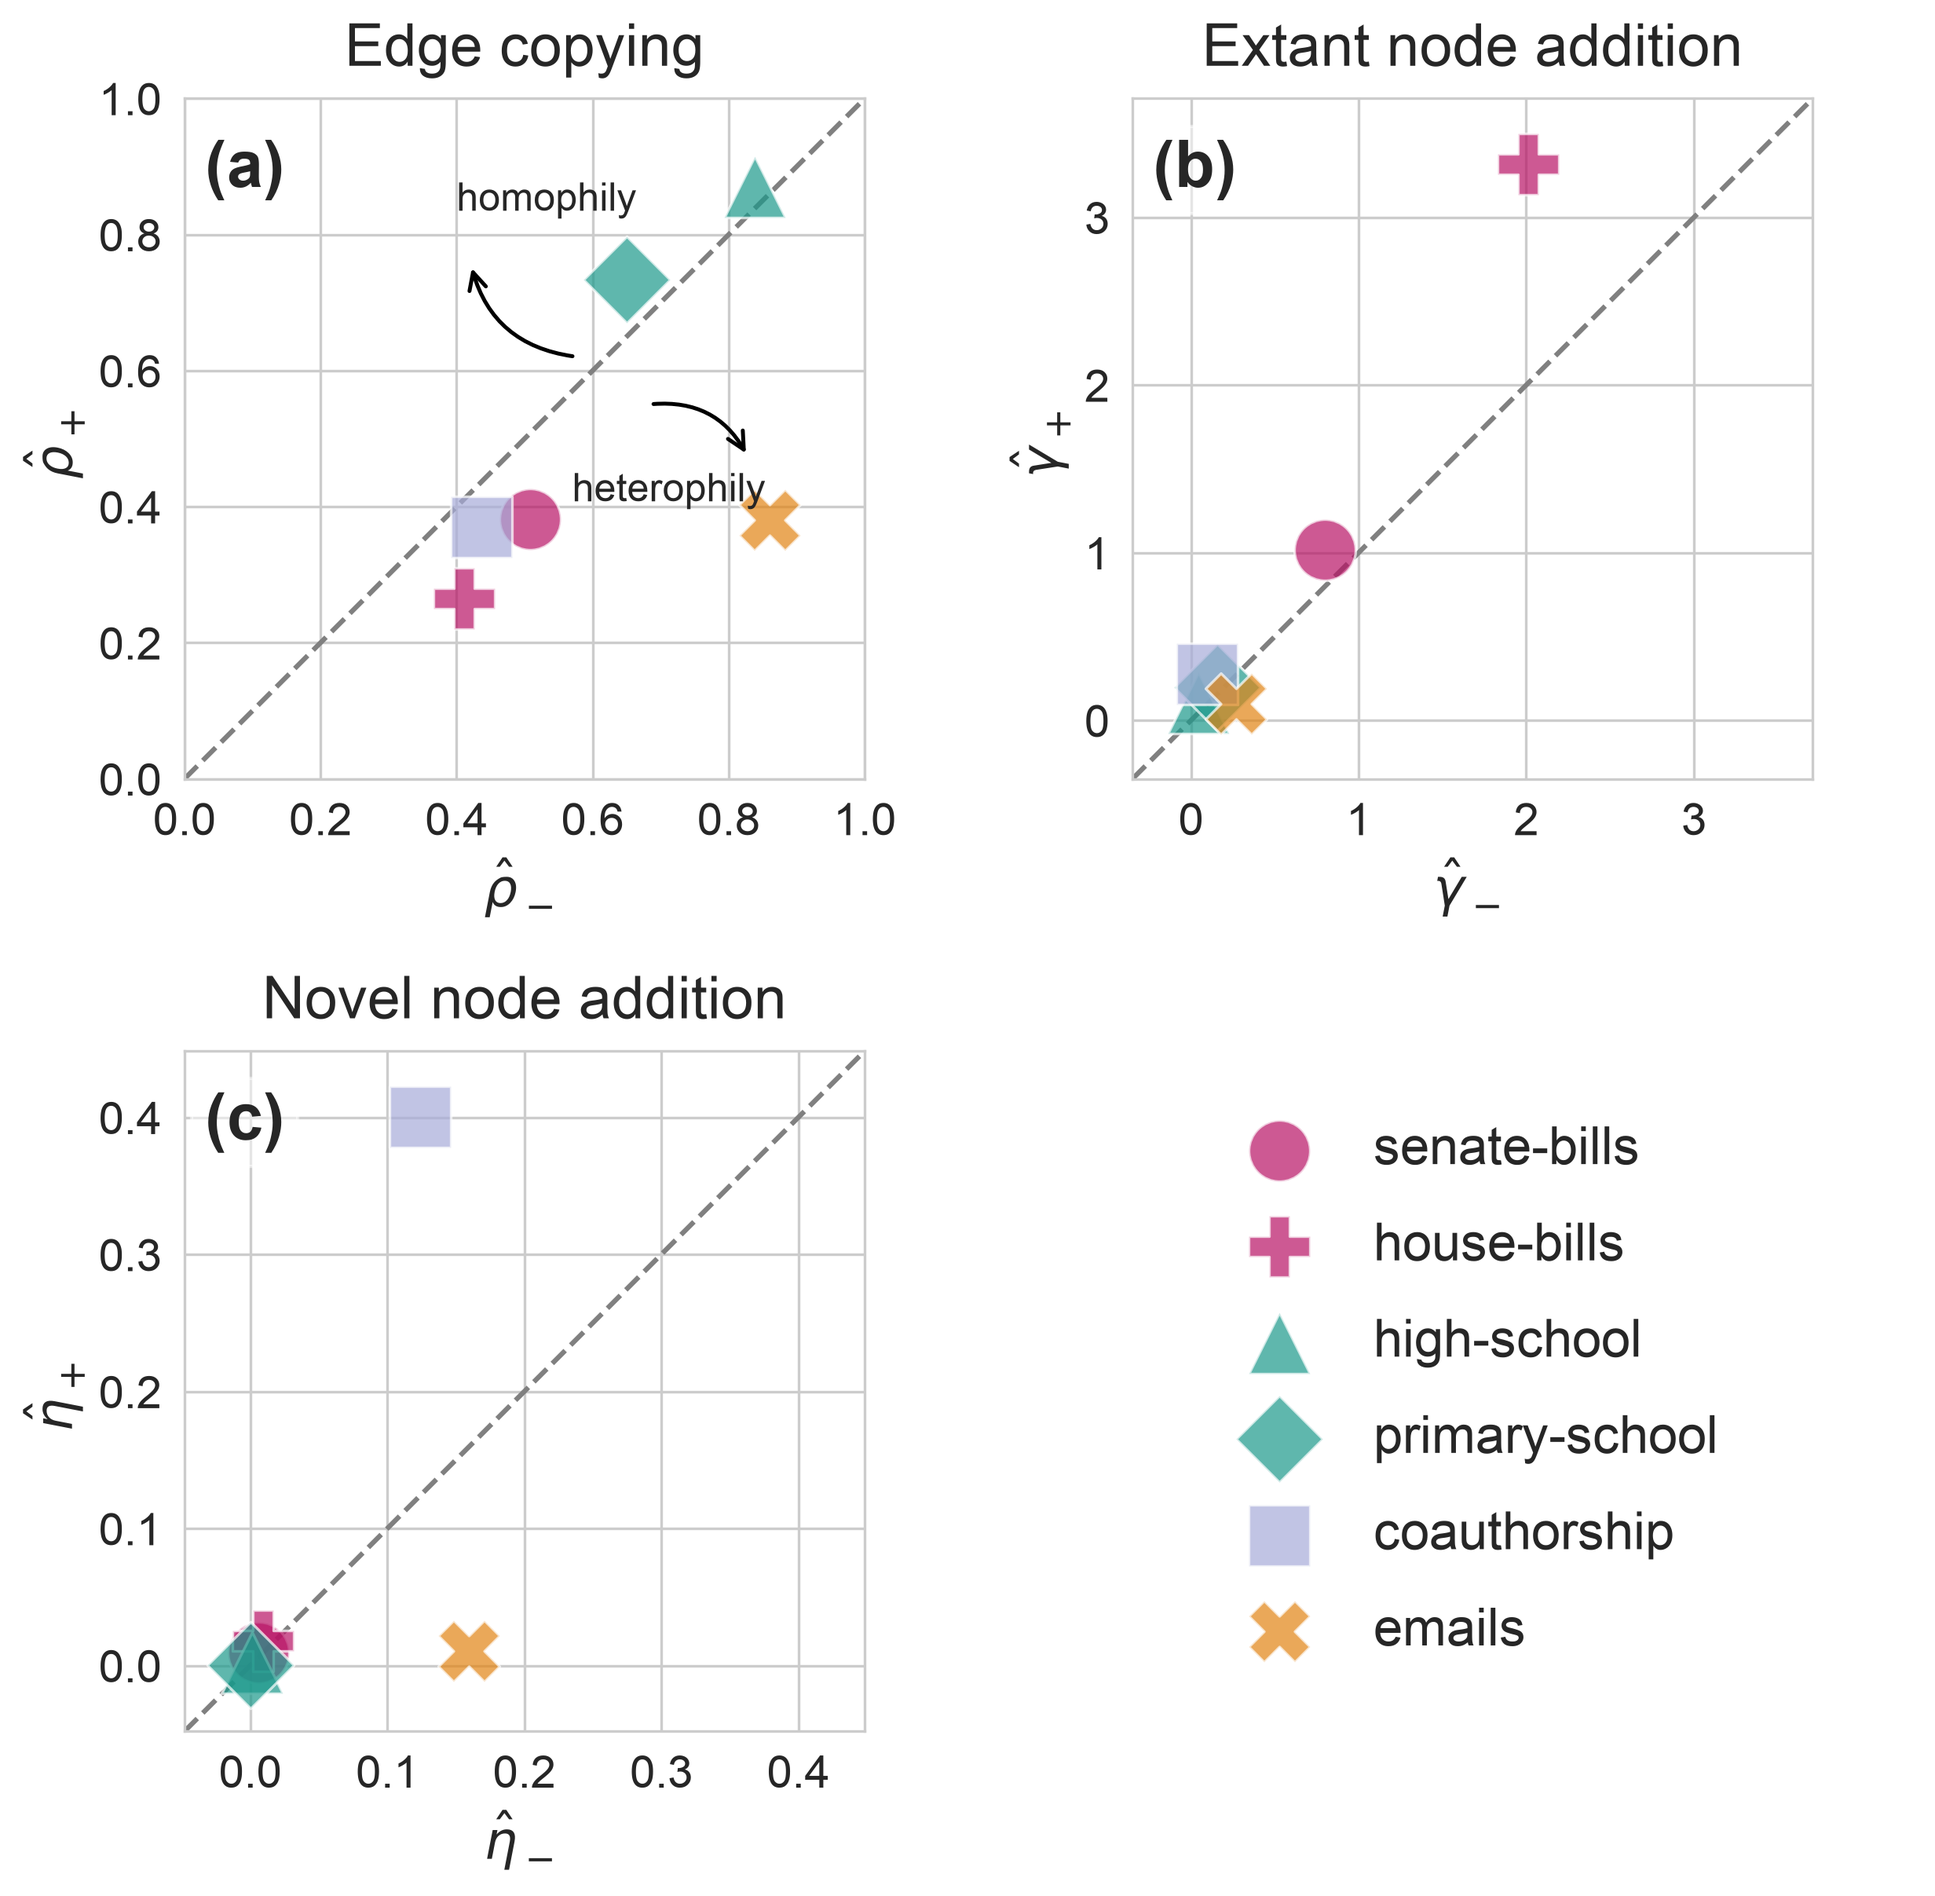
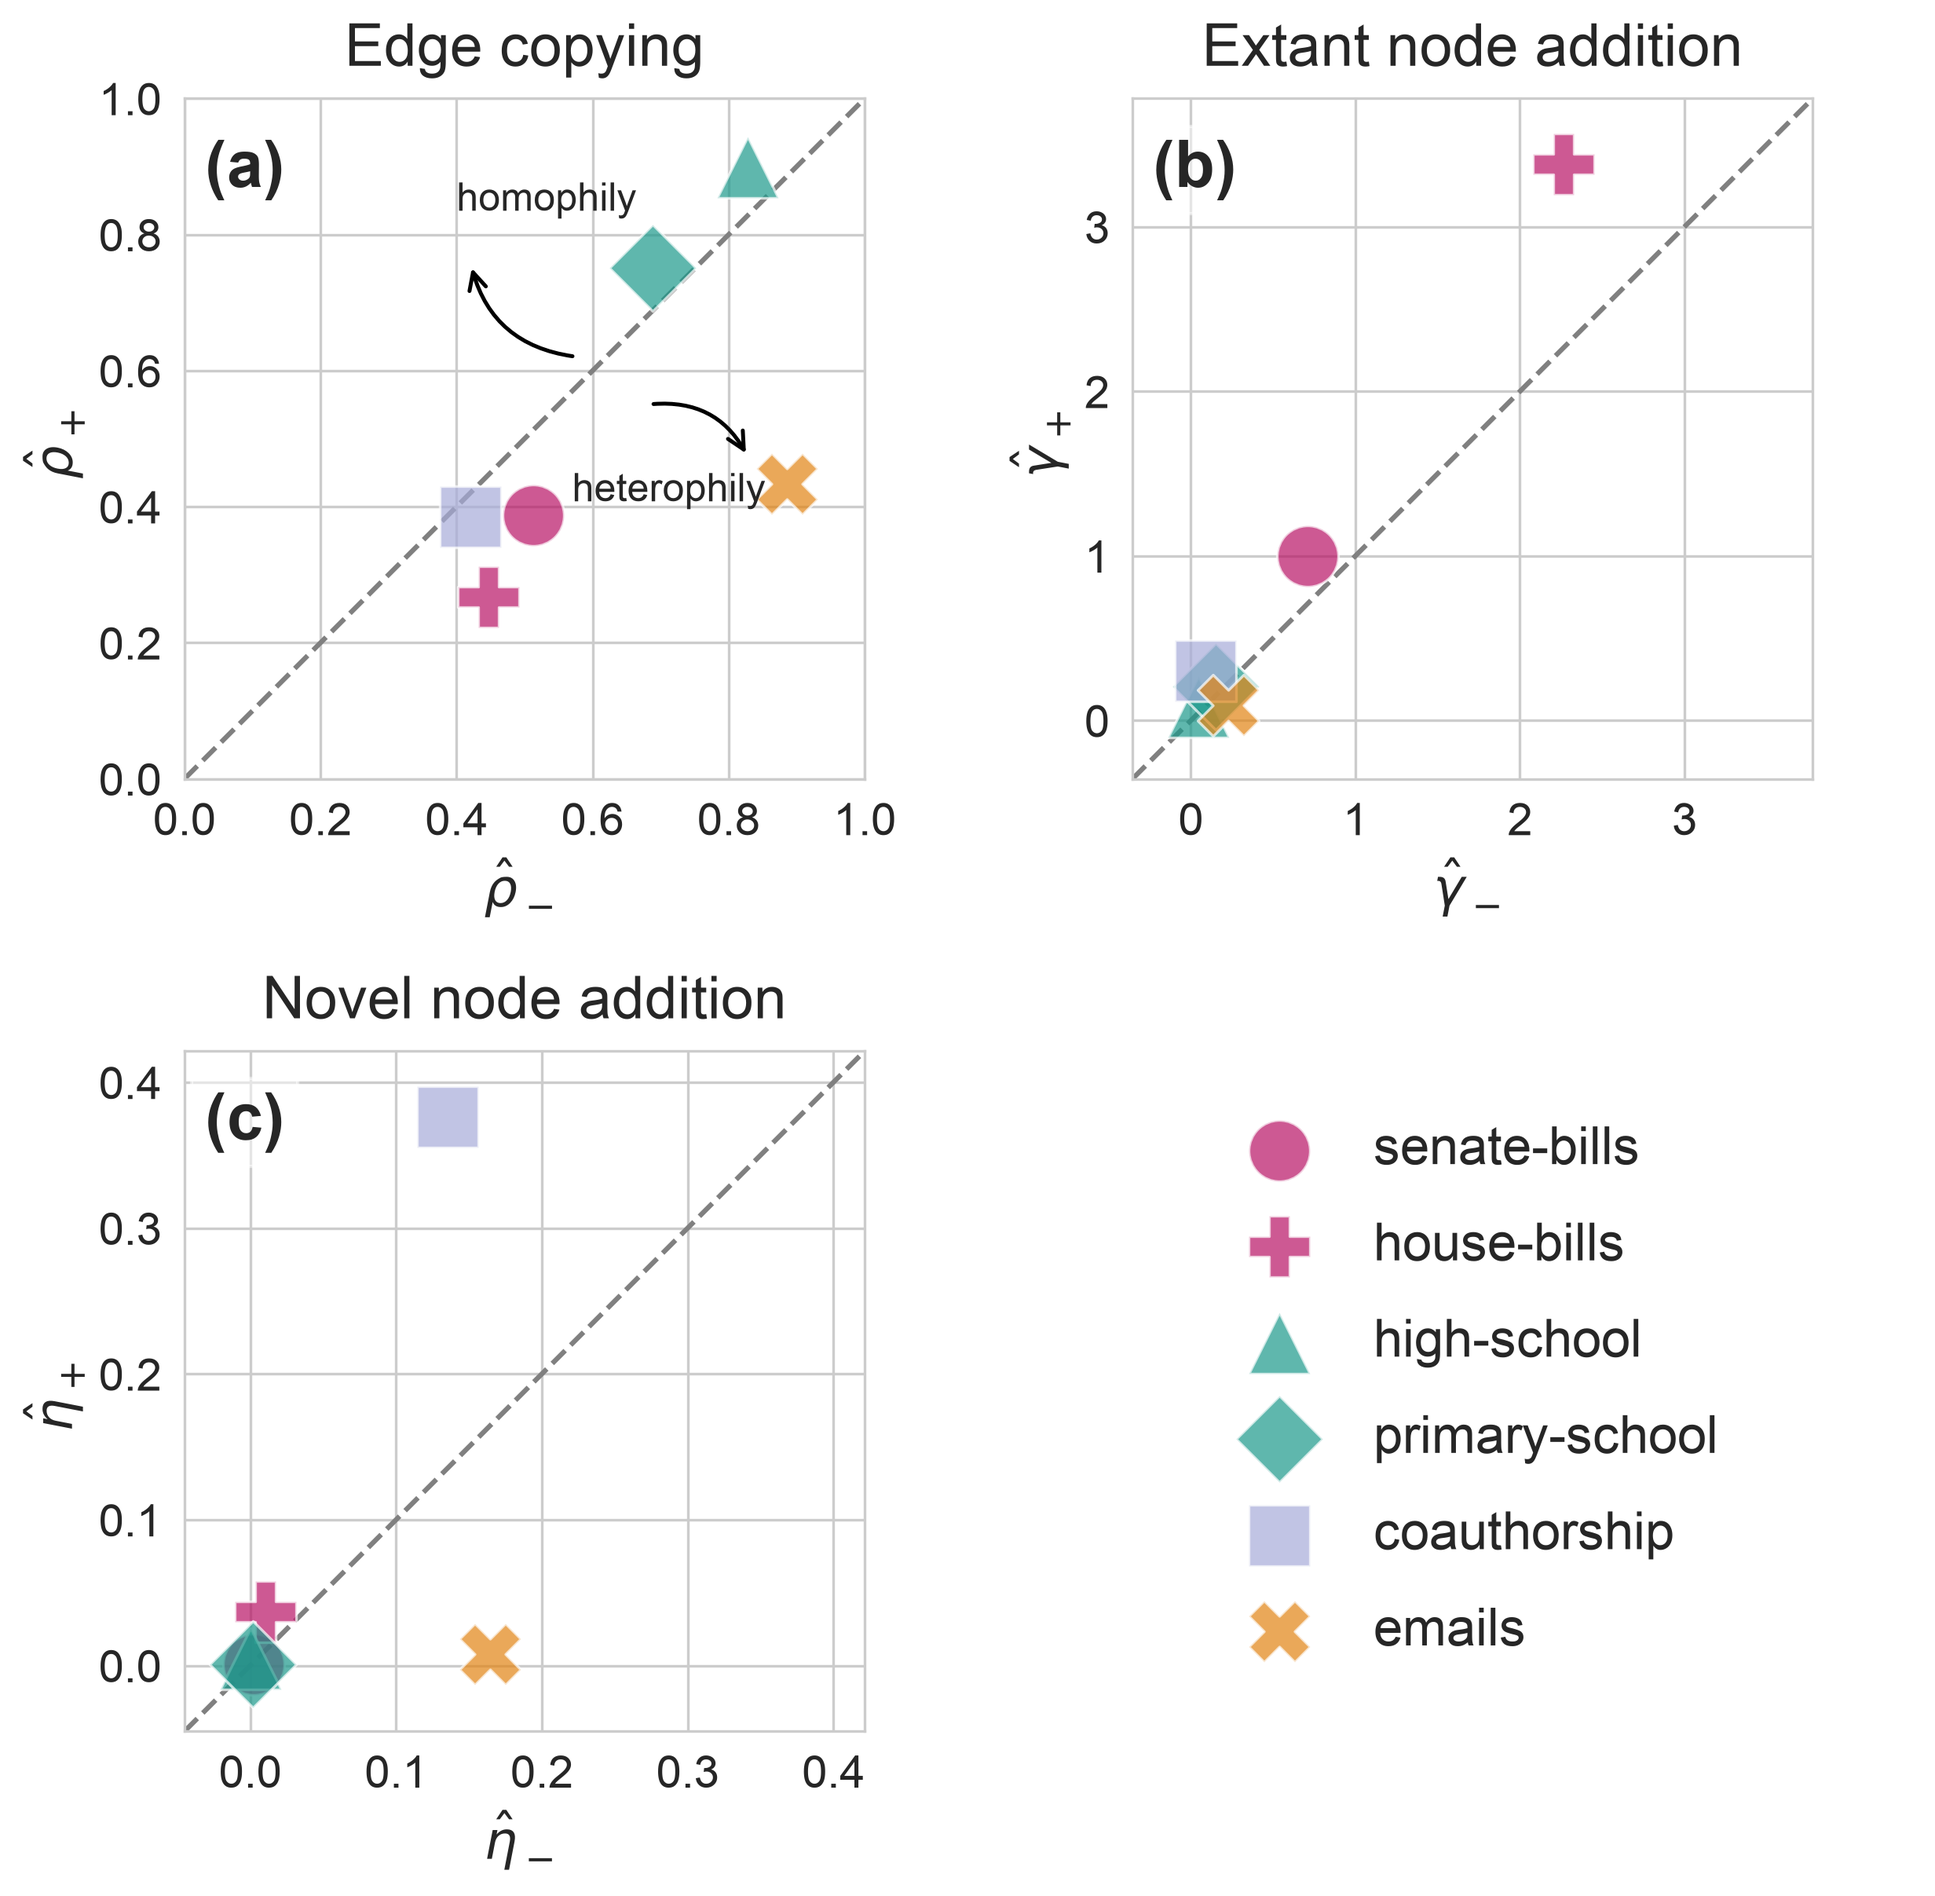
updated to have polynomial decay, higher iteration limit, weaker convergence criterion

diff --git a/scripts/complete_sem_convergence_plots_poly.py b/scripts/complete_sem_convergence_plots_poly.py
@@ -146,9 +146,17 @@ x_bracket_groups = [
 
 INPUT_DIR = "throughput/synthetic_results"
 N_ITERS = 20
+# iteration_limit used in scripts/complete_SEM_convergence_poly.py: a run that
+# never meets the convergence criterion writes exactly this many rows, while a
+# run that meets it stops early and writes fewer.
+ITERATION_LIMIT = 12000
+n_runs_total = 0
+n_runs_criterion_met = 0
 
 n_rows, n_cols = 10, 4
 kl_values = np.full((n_rows, n_cols), np.nan)
+n_found = np.zeros((n_rows, n_cols), dtype=int)  # replicates found per cell
+missing_by_graph = {}
 
 # Remap: original row index → display row index
 # Original row 9 (graphs 37-40) → display row 6
@@ -172,30 +180,39 @@ for graph_idx, true_theta in enumerate(true_thetas, start=1):
     truth = np.array(true_theta)
 
     iter_kls = []
+    last_found_path = None
     for j in range(1, N_ITERS + 1):
-        csv_path = os.path.join(INPUT_DIR, f"graph{graph_idx}_rep{j}_sem_ests_poly.csv")
+        csv_path = os.path.join(INPUT_DIR, f"graph{graph_idx}_rep{j}_sem_ests_poly_longer.csv")
         if not os.path.exists(csv_path):
             print(f"  [WARNING] Missing: {csv_path}")
+            missing_by_graph.setdefault(graph_idx, []).append(j)
             continue
 
         with open(csv_path, newline="") as f:
             all_rows = list(csv.reader(f))
+
+        n_runs_total += 1
+        if len(all_rows) < ITERATION_LIMIT:
+            n_runs_criterion_met += 1
 
         last_row = [float(v) for v in all_rows[-1] if v.strip() != ""][1:]
         estimate = np.array(last_row)
         kl = total_kl(truth, estimate)
         
         iter_kls.append(kl)
+        last_found_path = csv_path
+
+    n_found[row, col] = len(iter_kls)
 
     if iter_kls:
         mean_kl = np.mean(iter_kls)
         
         if mean_kl > max_kl:
-            kl_file_max = csv_path
+            kl_file_max = last_found_path
             kl_true_theta_max = truth
             max_kl = mean_kl
         if mean_kl < min_kl:
-            kl_file_min = csv_path
+            kl_file_min = last_found_path
             kl_true_theta_min = truth
             min_kl = mean_kl
 
@@ -206,8 +223,19 @@ for graph_idx, true_theta in enumerate(true_thetas, start=1):
         
 
 kl_values = kl_values[:, [0, 1, 3, 2]]
+n_found = n_found[:, [0, 1, 3, 2]]
+
+if missing_by_graph:
+    n_missing = sum(len(v) for v in missing_by_graph.values())
+    print(f"[WARNING] {n_missing} replicate file(s) missing across "
+          f"{len(missing_by_graph)} graph(s); affected cells are averaged over "
+          f"fewer replicates and marked on the heatmap:")
+    for g, reps in missing_by_graph.items():
+        print(f"  graph{g}: {N_ITERS - len(reps)}/{N_ITERS} found, missing reps {reps}")
 
 
+print(f"Convergence criterion met in {n_runs_criterion_met} of {n_runs_total} runs "
+      f"({n_runs_total - n_runs_criterion_met} ran to the {ITERATION_LIMIT}-iteration limit)")
 print(f"File with maximum KL divergence: {kl_file_max}")
 print(f"Maximum KL divergence: {max_kl}")
 print(f"File with minimum KL divergence: {kl_file_min}")
@@ -262,6 +290,21 @@ for i, idx in enumerate([vmin_idx, vmax_idx]):
     val = kl_values[r, c]
     ax.text(c, r, f"{val:.3f}", ha="center", va="center",
             fontsize=10, color=["black", "white"][i])
+
+# Mark cells that are missing replicates with a small "found/total" count
+# in the lower-right corner (cells with no data at all are left blank + marked).
+if (n_found < N_ITERS).any():
+    for r in range(n_rows):
+        for c in range(n_cols):
+            if n_found[r, c] == N_ITERS:
+                continue
+            val = kl_values[r, c]
+            dark_cell = np.isfinite(val) and im.norm(val) > 0.5
+            ax.text(c + 0.46, r + 0.42, f"{n_found[r, c]}/{N_ITERS}",
+                    ha="right", va="bottom", fontsize=6,
+                    color="white" if dark_cell else "black")
+    ax.text(1.0, -0.02, f"k/{N_ITERS}: cell averaged over k of {N_ITERS} replicates",
+            ha="right", va="top", fontsize=7, transform=ax.transAxes)
 
 # ── 6. Y-axis brackets (left side) ───────────────────────────────────────────
 
@@ -400,7 +443,7 @@ for k in range(2):
     lil_ax.plot([0, n_steps], [true_theta[5], true_theta[5]], color=fs.lighten(fs.palette[2]), linestyle='--')
     lines_2, labs_2 = lil_ax.get_legend_handles_labels()
     
-    lil_ax.set_ylim(0, 2.1)
+    lil_ax.set_ylim(0, 2.5)
     
     print(true_theta)
 
@@ -411,16 +454,17 @@ for k in range(2):
         
     lil_ax.semilogx()
     
-    if k == 1:
-        # two column legend
-        lil_ax.legend(lines_2, labs_2, loc='upper right', fontsize=11, ncol=2)
+    if k == 0:
+        # two column legend, top left of panel (c)
+        lil_ax.legend(lines_2, labs_2, loc='upper left', fontsize=11, ncol=2)
         
     if k == 0: 
         lil_ax.set_xticklabels([])
 
-    lil_ax.annotate(labs[2*k+1], xy=(0.05, 0.8), xycoords='axes fraction', fontsize=16, fontweight='bold', bbox=dict(facecolor='white', edgecolor='white', alpha=0.5))
+    # panel (c)'s label sits below its legend
+    lil_ax.annotate(labs[2*k+1], xy=(0.05, 0.6 if k == 0 else 0.8), xycoords='axes fraction', fontsize=16, fontweight='bold', bbox=dict(facecolor='white', edgecolor='white', alpha=0.5))
 
-output_path = "fig/sem_convergence_heatmap_poly.png"
+output_path = "fig/sem_convergence_heatmap_poly_longer.png"
 plt.savefig(output_path, dpi=300, bbox_inches="tight")
 print(f"Saved → {output_path}")
 

diff --git a/src/algorithms/sem_poly.py b/src/algorithms/sem_poly.py
@@ -167,9 +167,9 @@ class sem_functions:
             p, q, gamma_nu, gamma_nr, gamma_eu, gamma_er  = self.g(s)
             estimates.append([t, p, q, gamma_nu, gamma_nr, gamma_eu, gamma_er])
             # likelihoods.append(self.GH_prob(GH, [p, q, gamma_nu, gamma_nr, gamma_eu, gamma_er]))
-            if t > 800:
+            if t > 500:
                 all_converged = True
-                for i in range(2, 802):
+                for i in range(2, 502):
                     if not np.allclose(
                         estimates[-1][1:],
                         estimates[-i][1:],
